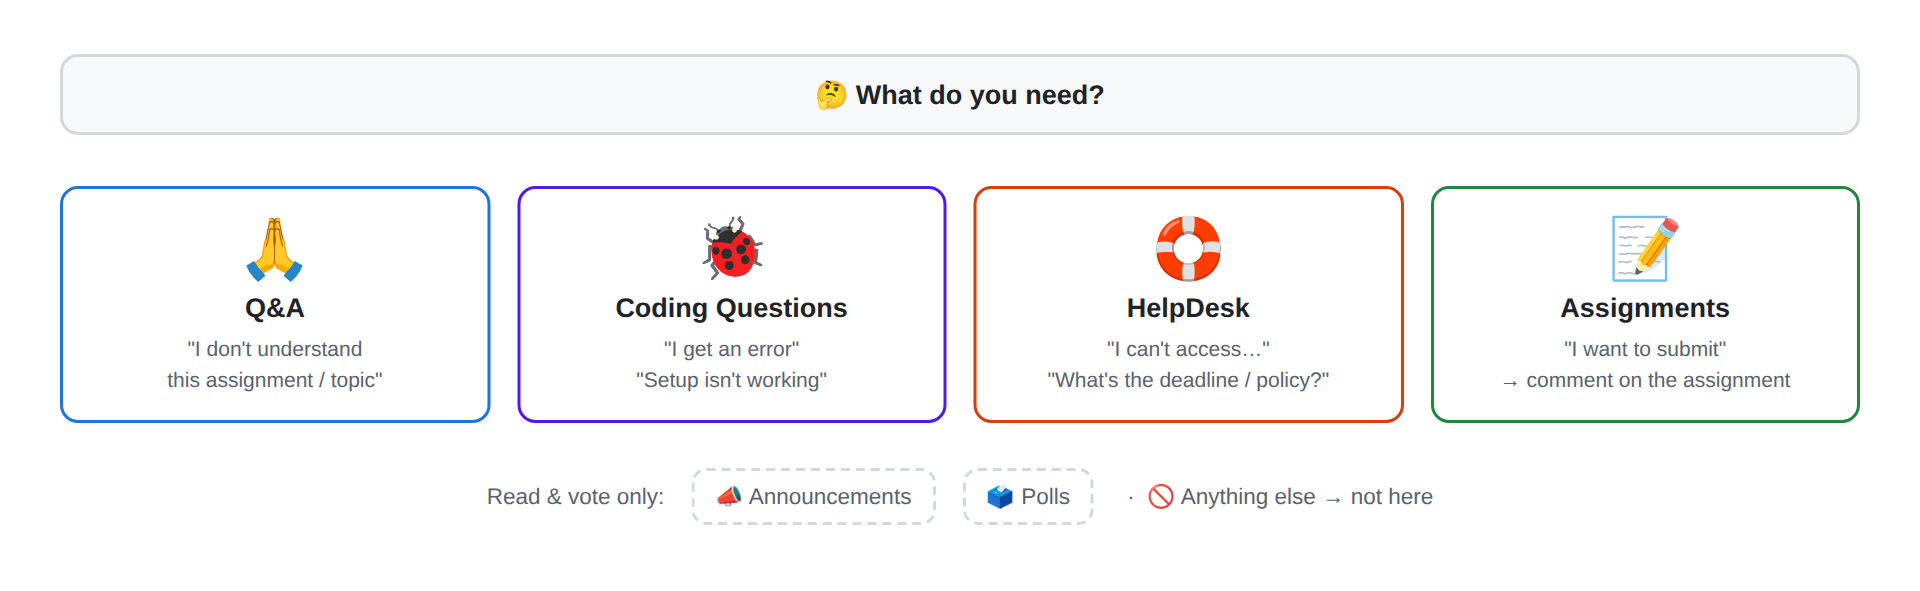
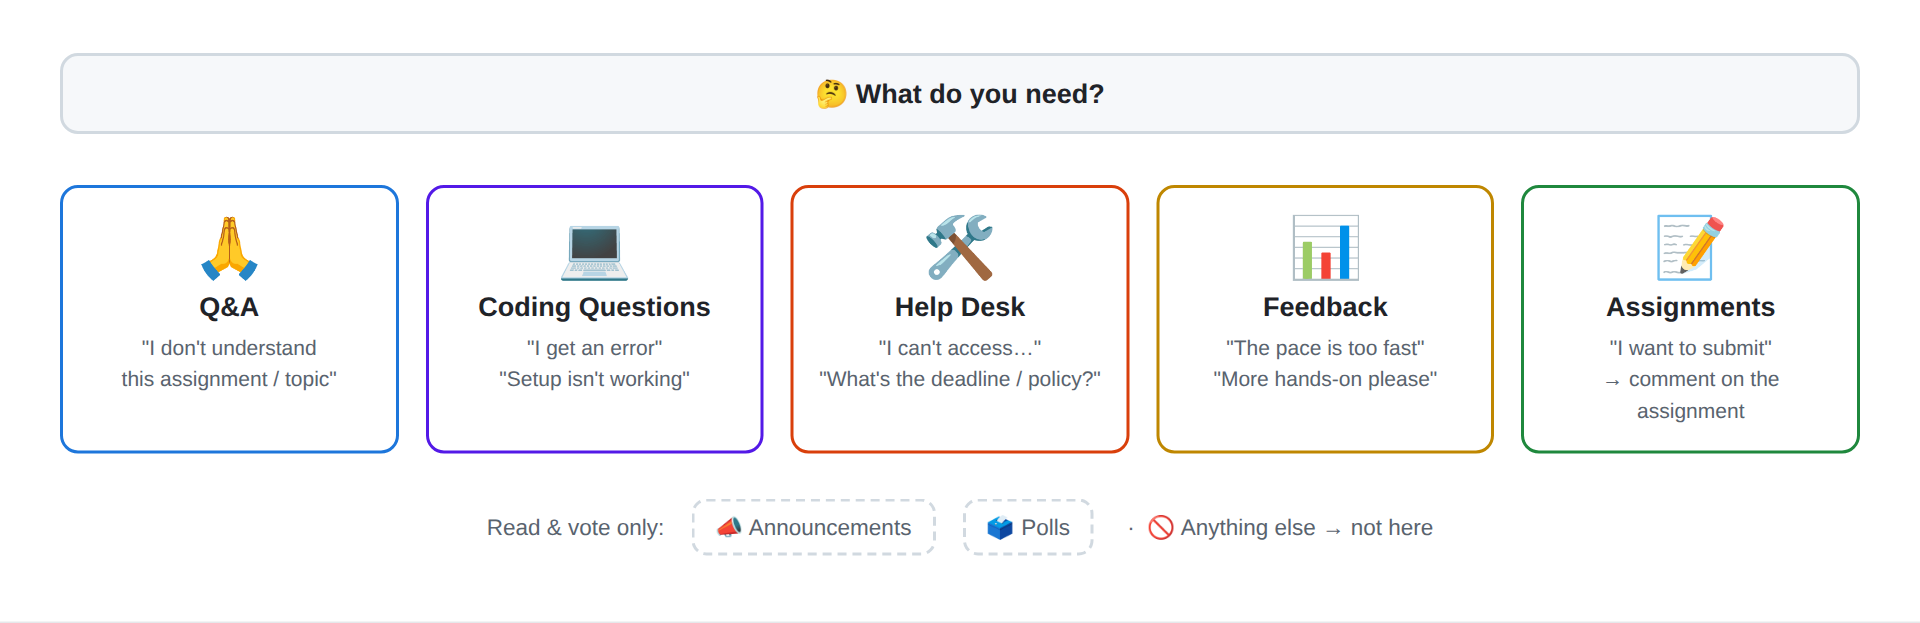
Discussions: add Feedback, match live category names and emojis
- Feedback category (open-ended) with a short form and welcome post
- Help Desk slug is help-desk; triage workflow matches categories by
  name so renames don't break labelling
- Emojis follow the live categories (💻 Coding Questions, 🛠 Help Desk, 📊 Feedback)
- Setup script flags forms whose file name matches no category slug
- Checklist: Assignments must use Announcement format; delete old posts

Claude-Session: https://claude.ai/code/session_01ATJ9o5qXXjfULyquUZMGvp

diff --git a/docs/discussions/images/src/mockups.html b/docs/discussions/images/src/mockups.html
@@ -72,7 +72,7 @@ kbd{font-family:"DejaVu Sans Mono",monospace;background:#eff2f5;border-radius:4p
     <div class="hl" id="s1cats" style="padding:2px">
     <div class="cat on">💬 View all discussions</div>
     <div class="cat">📣 Announcements</div><div class="cat">📝 Assignments</div><div class="cat">🙏 Q&amp;A</div>
-    <div class="cat">🐞 Coding Questions</div><div class="cat">🛟 HelpDesk</div><div class="cat">🗳 Polls</div></div>
+    <div class="cat">💻 Coding Questions</div><div class="cat">🛠 Help Desk</div><div class="cat">📊 Feedback</div><div class="cat">🗳 Polls</div></div>
    </div>
    <div class="main">
     <div class="pins hl" id="s1pins">
@@ -81,9 +81,9 @@ kbd{font-family:"DejaVu Sans Mono",monospace;background:#eff2f5;border-radius:4p
     </div>
     <h3>Discussions</h3>
     <div class="list">
-     <div class="item"><div class="emo">🐞</div><div><div class="t">docker compose: port 5432 already in use <span class="lab" style="background:#5319e722;color:#5319e7;border-color:#5319e755">setup-issue</span></div><div class="meta">student-a started in <b>Coding Questions</b> · <span class="ans">✓ Answered</span></div></div><div class="right">▲ 6 &nbsp; 💬 4</div></div>
+     <div class="item"><div class="emo">💻</div><div><div class="t">docker compose: port 5432 already in use <span class="lab" style="background:#5319e722;color:#5319e7;border-color:#5319e755">setup-issue</span></div><div class="meta">student-a started in <b>Coding Questions</b> · <span class="ans">✓ Answered</span></div></div><div class="right">▲ 6 &nbsp; 💬 4</div></div>
      <div class="item"><div class="emo">🙏</div><div><div class="t">Assignment 3: should a missing id return 404 or 400? <span class="lab" style="background:#1d76db22;color:#1d76db;border-color:#1d76db55">assignment-doubt</span></div><div class="meta">student-b started in <b>Q&amp;A</b> · <span class="ans">✓ Answered</span></div></div><div class="right">▲ 11 &nbsp; 💬 3</div></div>
-     <div class="item"><div class="emo">🛟</div><div><div class="t">Session 14 recording link not opening <span class="lab" style="background:#d93f0b22;color:#d93f0b;border-color:#d93f0b55">access-issue</span></div><div class="meta">student-c started in <b>HelpDesk</b> · Unanswered</div></div><div class="right">▲ 2 &nbsp; 💬 1</div></div>
+     <div class="item"><div class="emo">🛠</div><div><div class="t">Session 14 recording link not opening <span class="lab" style="background:#d93f0b22;color:#d93f0b;border-color:#d93f0b55">access-issue</span></div><div class="meta">student-c started in <b>Help Desk</b> · Unanswered</div></div><div class="right">▲ 2 &nbsp; 💬 1</div></div>
      <div class="item"><div class="emo">🗳</div><div><div class="t">Which weekend slot works better for the revision class?</div><div class="meta">mentor started in <b>Polls</b> · 48 votes</div></div><div class="right">💬 5</div></div>
     </div>
    </div>
@@ -101,8 +101,9 @@ kbd{font-family:"DejaVu Sans Mono",monospace;background:#eff2f5;border-radius:4p
   <div style="color:#59636e;margin-bottom:18px">Select a category</div>
   <div class="box">
    <div class="item"><div class="emo">🙏</div><div><div class="t">Q&amp;A</div><div class="meta">Doubts about assignments and live sessions</div></div><span class="btn right" style="color:#1f2328">Get started</span></div>
-   <div class="item hl" id="s2coding" style="border-radius:0"><div class="emo">🐞</div><div><div class="t">Coding Questions</div><div class="meta">Errors, bugs, setup and installation problems</div></div><span class="btn right" style="color:#1f2328">Get started</span></div>
-   <div class="item"><div class="emo">🛟</div><div><div class="t">HelpDesk</div><div class="meta">Access, deadlines, attendance, certificates and course policies</div></div><span class="btn right" style="color:#1f2328">Get started</span></div>
+   <div class="item hl" id="s2coding" style="border-radius:0"><div class="emo">💻</div><div><div class="t">Coding Questions</div><div class="meta">Errors, bugs, setup and installation problems</div></div><span class="btn right" style="color:#1f2328">Get started</span></div>
+   <div class="item"><div class="emo">🛠</div><div><div class="t">Help Desk</div><div class="meta">Access, deadlines, attendance, certificates and course policies</div></div><span class="btn right" style="color:#1f2328">Get started</span></div>
+   <div class="item"><div class="emo">📊</div><div><div class="t">Feedback</div><div class="meta">Pace, difficulty, content, sessions. Every post is read.</div></div><span class="btn right" style="color:#1f2328">Get started</span></div>
   </div>
  </div>
  <div class="illus">Illustration – your screen may look slightly different</div>
@@ -113,7 +114,7 @@ kbd{font-family:"DejaVu Sans Mono",monospace;background:#eff2f5;border-radius:4p
  <div class="top"><div class="repo"><span class="lock">🔒</span> your-org / <b>course-repo</b></div>
   <div class="tabs"><span class="tab">Code</span><span class="tab">Issues</span><span class="tab">Pull requests</span><span class="tab on">💬 Discussions</span><span class="tab">Actions</span></div></div>
  <div class="wrap" style="padding-left:60px;padding-right:420px">
-  <div class="row" style="margin-bottom:6px"><span class="emo">🐞</span><b style="font-size:16px">Coding Questions</b> <span style="color:#0969da;font-size:12px;margin-left:6px">change</span></div>
+  <div class="row" style="margin-bottom:6px"><span class="emo">💻</span><b style="font-size:16px">Coding Questions</b> <span style="color:#0969da;font-size:12px;margin-left:6px">change</span></div>
   <label class="f">Title</label>
   <div class="inp hl" id="s3title">ModuleNotFoundError: No module named 'pandas' when running main.py in VS Code</div>
   <div class="mdnote" style="margin-top:16px"><b>Coding Questions is for errors, bugs and technical problems.</b> Paste the error as text, and attach a screenshot if it helps.<br>⚠ Never paste passwords, API keys, tokens or <kbd>.env</kbd> files.</div>
@@ -141,7 +142,7 @@ ModuleNotFoundError: No module named 'pandas'</pre>
   <div class="tabs"><span class="tab">Code</span><span class="tab">Issues</span><span class="tab">Pull requests</span><span class="tab on">💬 Discussions</span><span class="tab">Actions</span></div></div>
  <div class="wrap" style="padding-left:60px;padding-right:400px">
   <h2 style="font-size:24px;font-weight:400;margin:0">ModuleNotFoundError: No module named 'pandas' when running main.py in VS Code <span style="color:#59636e">#42</span></h2>
-  <div class="row" style="margin:8px 0 4px"><span class="greenbox">✓ Answered</span><span style="color:#59636e;font-size:13px">student-a asked in 🐞 Coding Questions</span><span class="lab" style="background:#5319e722;color:#5319e7;border-color:#5319e755">setup-issue</span></div>
+  <div class="row" style="margin:8px 0 4px"><span class="greenbox">✓ Answered</span><span style="color:#59636e;font-size:13px">student-a asked in 💻 Coding Questions</span><span class="lab" style="background:#5319e722;color:#5319e7;border-color:#5319e755">setup-issue</span></div>
 
   <div class="cmt"><div class="cmth"><div class="av" style="background:#8250df">SA</div><b>student-a</b> asked</div>
    <div class="cmtb"><div class="vote" id="s4vote">▲<b>6</b></div><div>Ran <kbd>pip install pandas</kbd> – it says "Requirement already satisfied" but VS Code still can't find it…</div></div></div>
@@ -221,7 +222,7 @@ Expected all 3 items, got only `c`.
 <div class="shot" id="s7" style="padding:36px 40px 44px">
  <style>
  .q{background:#f6f8fa;border:2px solid #d1d9e0;border-radius:12px;padding:14px 18px;font-weight:700;font-size:18px;text-align:center}
- .grid7{display:grid;grid-template-columns:repeat(4,1fr);gap:18px;margin-top:34px}
+ .grid7{display:grid;grid-template-columns:repeat(5,1fr);gap:18px;margin-top:34px}
  .c7{border:2px solid;border-radius:12px;padding:16px;text-align:center}
  .c7 .e{font-size:40px}.c7 .n{font-weight:700;font-size:18px;margin:6px 0}.c7 .x{color:#59636e;font-size:14px;line-height:1.5}
  .arrow{text-align:center;color:#8c959f;font-size:26px;margin-top:-26px}
@@ -231,8 +232,9 @@ Expected all 3 items, got only `c`.
  <div class="q">🤔 What do you need?</div>
  <div class="grid7">
   <div class="c7" style="border-color:#1d76db"><div class="e">🙏</div><div class="n">Q&amp;A</div><div class="x">"I don't understand<br>this assignment / topic"</div></div>
-  <div class="c7" style="border-color:#5319e7"><div class="e">🐞</div><div class="n">Coding Questions</div><div class="x">"I get an error"<br>"Setup isn't working"</div></div>
-  <div class="c7" style="border-color:#d93f0b"><div class="e">🛟</div><div class="n">HelpDesk</div><div class="x">"I can't access…"<br>"What's the deadline / policy?"</div></div>
+  <div class="c7" style="border-color:#5319e7"><div class="e">💻</div><div class="n">Coding Questions</div><div class="x">"I get an error"<br>"Setup isn't working"</div></div>
+  <div class="c7" style="border-color:#d93f0b"><div class="e">🛠</div><div class="n">Help Desk</div><div class="x">"I can't access…"<br>"What's the deadline / policy?"</div></div>
+  <div class="c7" style="border-color:#bf8700"><div class="e">📊</div><div class="n">Feedback</div><div class="x">"The pace is too fast"<br>"More hands-on please"</div></div>
   <div class="c7" style="border-color:#1f883d"><div class="e">📝</div><div class="n">Assignments</div><div class="x">"I want to submit"<br>→ comment on the assignment</div></div>
  </div>
  <div class="mentor">Read &amp; vote only: <span>📣 Announcements</span><span>🗳 Polls</span> &nbsp;·&nbsp; 🚫 Anything else → not here</div>

diff --git a/docs/discussions/SETUP.md b/docs/discussions/SETUP.md
@@ -4,7 +4,7 @@ Use this to set up Discussions in any course repository. It takes about 15 minut
 Everything in this folder plus these files is the whole kit — copy them to the new repo first:
 
 ```
-.github/DISCUSSION_TEMPLATE/     forms for Q&A, Coding Questions, HelpDesk, Assignments
+.github/DISCUSSION_TEMPLATE/     forms for Q&A, Coding Questions, Help Desk, Feedback, Assignments
 .github/workflows/discussions-triage.yml   turns form answers into labels, keeps Polls mentor-only
 docs/discussions/                this guide, welcome posts, labels, setup script, screenshots
 ```
@@ -27,7 +27,7 @@ what stops students from deleting other people's posts and from posting in Annou
 
 | Action | Student (**Read**) | Mentor (**Maintain**) |
 |---|---|---|
-| Start a discussion in Q&A, Coding Questions, HelpDesk | ✅ | ✅ |
+| Start a discussion in Q&A, Coding Questions, Help Desk, Feedback | ✅ | ✅ |
 | Start a discussion in **Announcements / Assignments** (Announcement format) | ❌ blocked by GitHub | ✅ |
 | Start a poll in **Polls** | ⚠ GitHub allows it — `discussions-triage.yml` closes and locks it automatically | ✅ |
 | Comment, reply, react, upvote | ✅ (not on locked discussions) | ✅ |
@@ -57,7 +57,8 @@ for the people who own the repository.
 
 ## 1. Categories
 
-*Discussions tab → ✏ next to "Categories"*. Delete **General**, **Ideas** and **Show and tell**
+*Discussions tab → ✏ next to "Categories"*. Delete **General**, **Ideas** and **Show and tell**,
+plus any old discussions left in the repo (open each one → sidebar → **Delete discussion**)
 (🗑 icon). Edit the defaults you keep and create the rest so you end up with exactly this:
 
 | Emoji | Name (exact) | Format | Slug (must match) | Description |
@@ -65,12 +66,17 @@ for the people who own the repository.
 | 📣 | Announcements | **Announcement** | `announcements` | Official course updates. Only mentors can post. |
 | 📝 | Assignments | **Announcement** | `assignments` | Assignments are posted here. Submit by commenting on the assignment. |
 | 🙏 | Q&A | **Question / Answer** | `q-a` | Doubts about assignments and live sessions. |
-| 🐞 | Coding Questions | **Question / Answer** | `coding-questions` | Errors, bugs, setup and installation problems. |
-| 🛟 | HelpDesk | **Question / Answer** | `helpdesk` | Access, deadlines, attendance, certificates and course policies. |
+| 💻 | Coding Questions | **Question / Answer** | `coding-questions` | Errors, bugs, setup and installation problems. |
+| 🛠 | Help Desk | **Question / Answer** | `help-desk` | Access, deadlines, attendance, certificates and course policies. |
+| 📊 | Feedback | **Open-ended discussion** | `feedback` | Pace, difficulty, content, sessions. Every post is read. |
 | 🗳 | Polls | **Poll** | `polls` | Mentors ask for your input on schedules and more. Please vote! |
 
+⚠ **Assignments must use the Announcement format** (a 🔒 lock appears next to its name). With
+Question / Answer format, students can start their own threads there.
+
 **Check the slugs.** Click each category and look at the URL: `…/discussions/categories/<slug>`.
-The forms in `.github/DISCUSSION_TEMPLATE/` and the triage workflow match categories by slug.
+The forms in `.github/DISCUSSION_TEMPLATE/` match categories by slug. The triage workflow matches by
+name.
 Renaming an existing category may keep its old slug. If a slug doesn't match, delete that category and
 create it again with the right name.
 
@@ -99,8 +105,8 @@ applies the matching label. Mentors add the last three labels by hand.
 | `assignment-doubt` | Q&A form → "An assignment" | Doubt about an assignment |
 | `session-doubt` | Q&A form → "A live session or recording" | Doubt about a session |
 | `setup-issue` | Coding Questions form → "Setup / installation" | Tools and environment problems |
-| `access-issue` | HelpDesk form → "Access" | Can't open the LMS, repo, recordings or links |
-| `course-policy` | HelpDesk form → "Course policy" | Deadlines, attendance, grading, certificates |
+| `access-issue` | Help Desk form → "Access" | Can't open the LMS, repo, recordings or links |
+| `course-policy` | Help Desk form → "Course policy" | Deadlines, attendance, grading, certificates |
 | `needs-info` | Mentor | Waiting on the author for details |
 | `duplicate` | Mentor | Link the original, then close as duplicate |
 | `faq` | Mentor | Good Q&A to reuse with future cohorts |

diff --git a/docs/discussions/welcome-posts/feedback.md b/docs/discussions/welcome-posts/feedback.md
@@ -1,0 +1,11 @@
+# 📊 How to give Feedback
+
+**For:** pace · difficulty · content · sessions · assignments
+**Not for:** ❓ doubts → Q&A · 🛠 problems → Help Desk
+
+- 🎯 One topic per post
+- 🔧 Suggest a fix, not just a complaint
+- 👍 Agree with a post? Upvote it, don't repeat it
+- 👀 Public and under your name. Stay respectful
+
+📘 [Full visual guide]({{GUIDE_URL}})

diff --git a/docs/discussions/GUIDE.md b/docs/discussions/GUIDE.md
@@ -9,8 +9,9 @@
 | 📣 | Announcements | Mentors |
 | 📝 | Assignments | Mentors (you **comment** to submit) |
 | 🙏 | Q&A | Everyone |
-| 🐞 | Coding Questions | Everyone |
-| 🛟 | HelpDesk | Everyone |
+| 💻 | Coding Questions | Everyone |
+| 🛠 | Help Desk | Everyone |
+| 📊 | Feedback | Everyone |
 | 🗳 | Polls | Mentors (you vote) |
 
 ## 2. Find your way around

diff --git a/docs/discussions/welcome-posts/help-desk.md b/docs/discussions/welcome-posts/help-desk.md
@@ -1,7 +1,7 @@
-# 🛟 How to use HelpDesk
+# 🛠 How to use Help Desk
 
 **For:** 🔑 access · 📋 deadlines, attendance, grading, certificates · 🗓 schedule
-**Not for:** 🙏 doubts → Q&A · 🐞 errors → Coding Questions
+**Not for:** 🙏 doubts → Q&A · 💻 errors → Coding Questions
 
 ![]({{IMG}}/02-choose-category.png)
 

diff --git a/docs/discussions/welcome-posts/q-a.md b/docs/discussions/welcome-posts/q-a.md
@@ -1,7 +1,7 @@
 # 🙏 How to use Q&A
 
 **For:** ✅ assignment doubts ✅ session doubts
-**Not for:** 🐞 errors → Coding Questions · 🛟 admin → HelpDesk
+**Not for:** 💻 errors → Coding Questions · 🛠 admin → Help Desk
 
 ![]({{IMG}}/05-labels-and-filters.png)
 

diff --git a/docs/discussions/welcome-posts/coding-questions.md b/docs/discussions/welcome-posts/coding-questions.md
@@ -1,4 +1,4 @@
-# 🐞 How to ask a Coding Question
+# 💻 How to ask a Coding Question
 
 ![]({{IMG}}/03-new-discussion-form.png)
 
